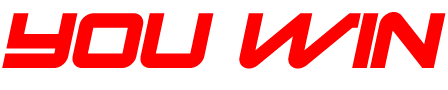
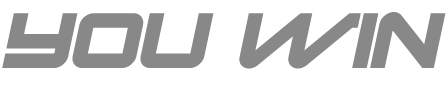
Added new colour scheme.

diff --git a/player_class.py b/player_class.py
@@ -20,6 +20,7 @@ class Player(pygame.sprite.Sprite):
 
         self.dead = False
         self.win = False
+        self.lose = False
 
         self.speed_h = 0
         self.speed_v = 0
@@ -57,7 +58,7 @@ class Player(pygame.sprite.Sprite):
         self.boost_image = pygame.image.load('boost.png').convert_alpha()
         self.player_image_rect = pygame.Surface([32, 32])
         self.win_image = pygame.image.load('map_tiles/win.png').convert_alpha()
-        
+        self.lose_image = pygame.image.load('map_tiles/lose.png').convert_alpha()
 
 
     def render(self, screen):
@@ -67,6 +68,8 @@ class Player(pygame.sprite.Sprite):
         if self.boost == True:
             screen.blit(self.boost_image, (screen_width / 2 , screen_height - 64))
 
+        if self.lose == True:
+            screen.blit(self.lose_image, (screen_width / 3 , screen_height / 3))
 
         if self.win == True:
             screen.blit(self.win_image, (screen_width / 3 , screen_height / 3))
@@ -255,5 +258,7 @@ class Player(pygame.sprite.Sprite):
                 if laser.current_image == 0:
                     self.player_death()
 
+
     def player_death(self):
         self.dead = True
+        self.lose = True
